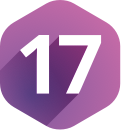
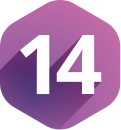
fixed

diff --git a/protected/views/site/index.php b/protected/views/site/index.php
@@ -17,7 +17,7 @@
                 <h4 class="about__advantage">У нас работают квалифицинованные специалисты</h4>
                 <h4 class="about__advantage">Скидка на самосвалы<br/>при заказе погрузчика<br/>или экскаватора</h4>
                 <h4 class="about__advantage">Скидки<br/>для постоянных<br/>клиентов</h4>
-                <h4 class="about__advantage">17 лет на рынке<br/>нерудных материалов</h4>
+                <h4 class="about__advantage">14 лет на рынке<br/>нерудных материалов</h4>
                 <h4 class="about__advantage">Работаем<br/>по Омской области</h4>
                 <h4 class="about__advantage">Работаем<br/>24 часа в сутки </h4>
             </div><!-- /end .about__advantages -->
